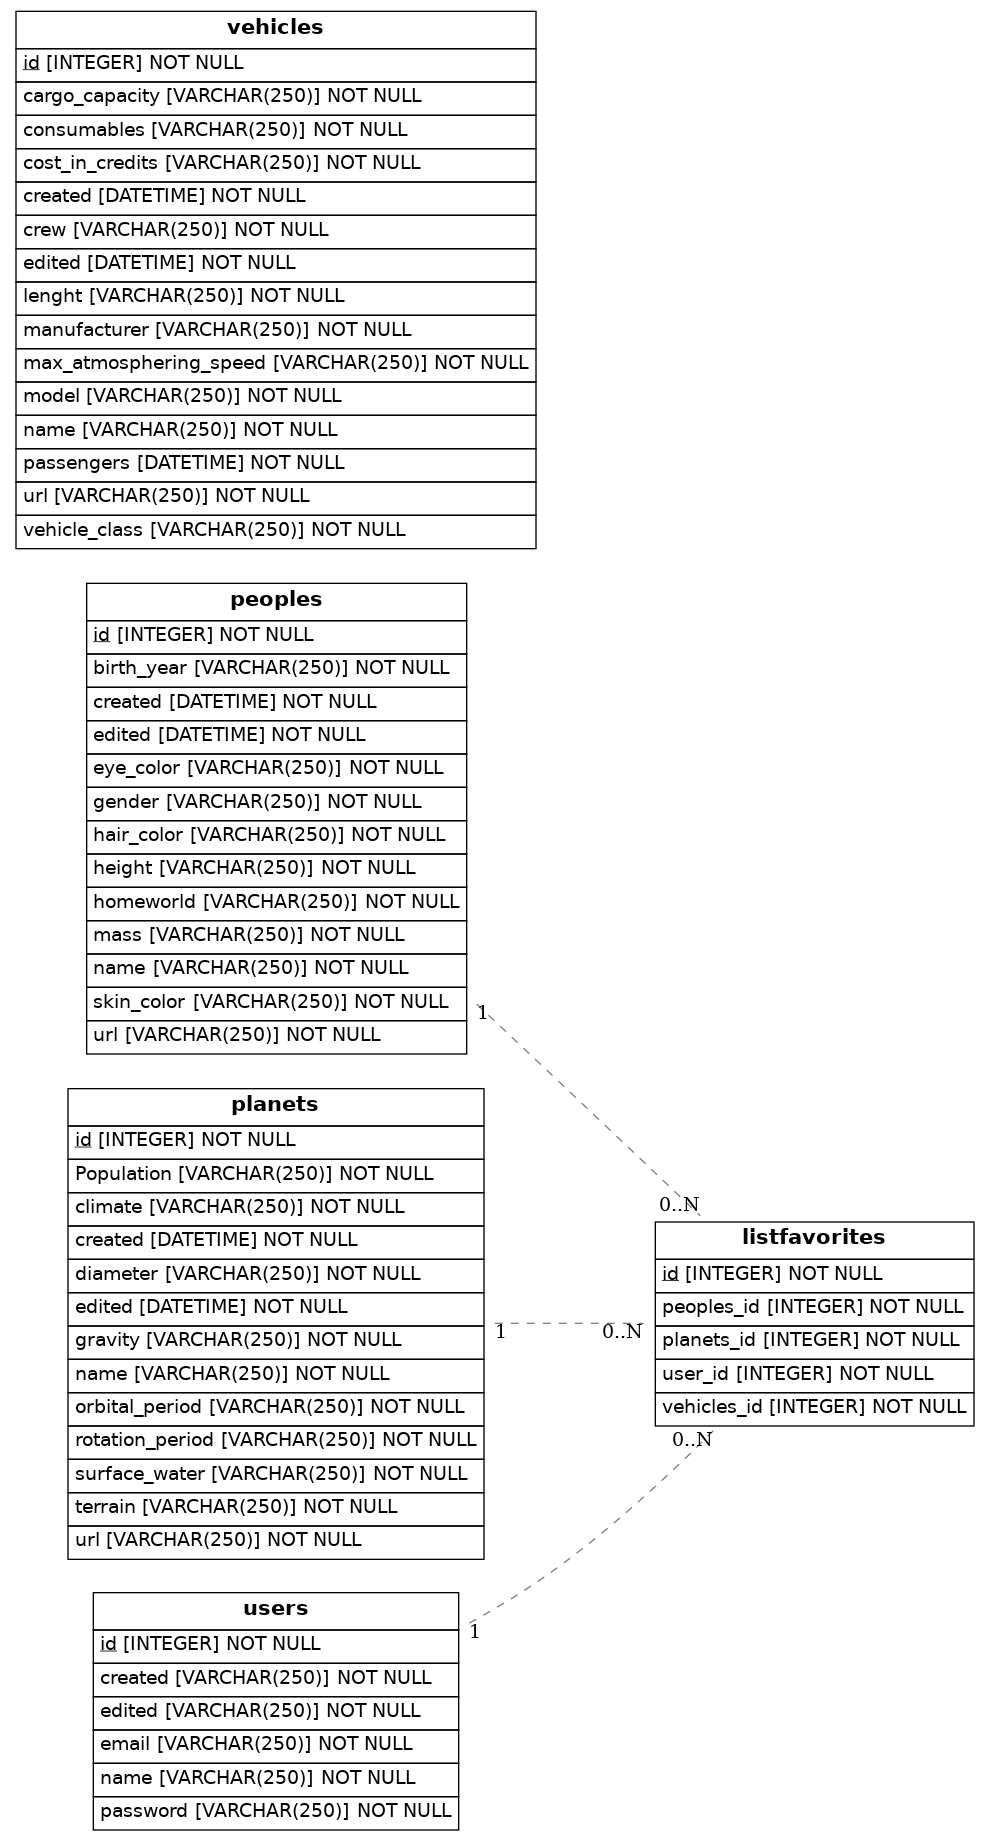
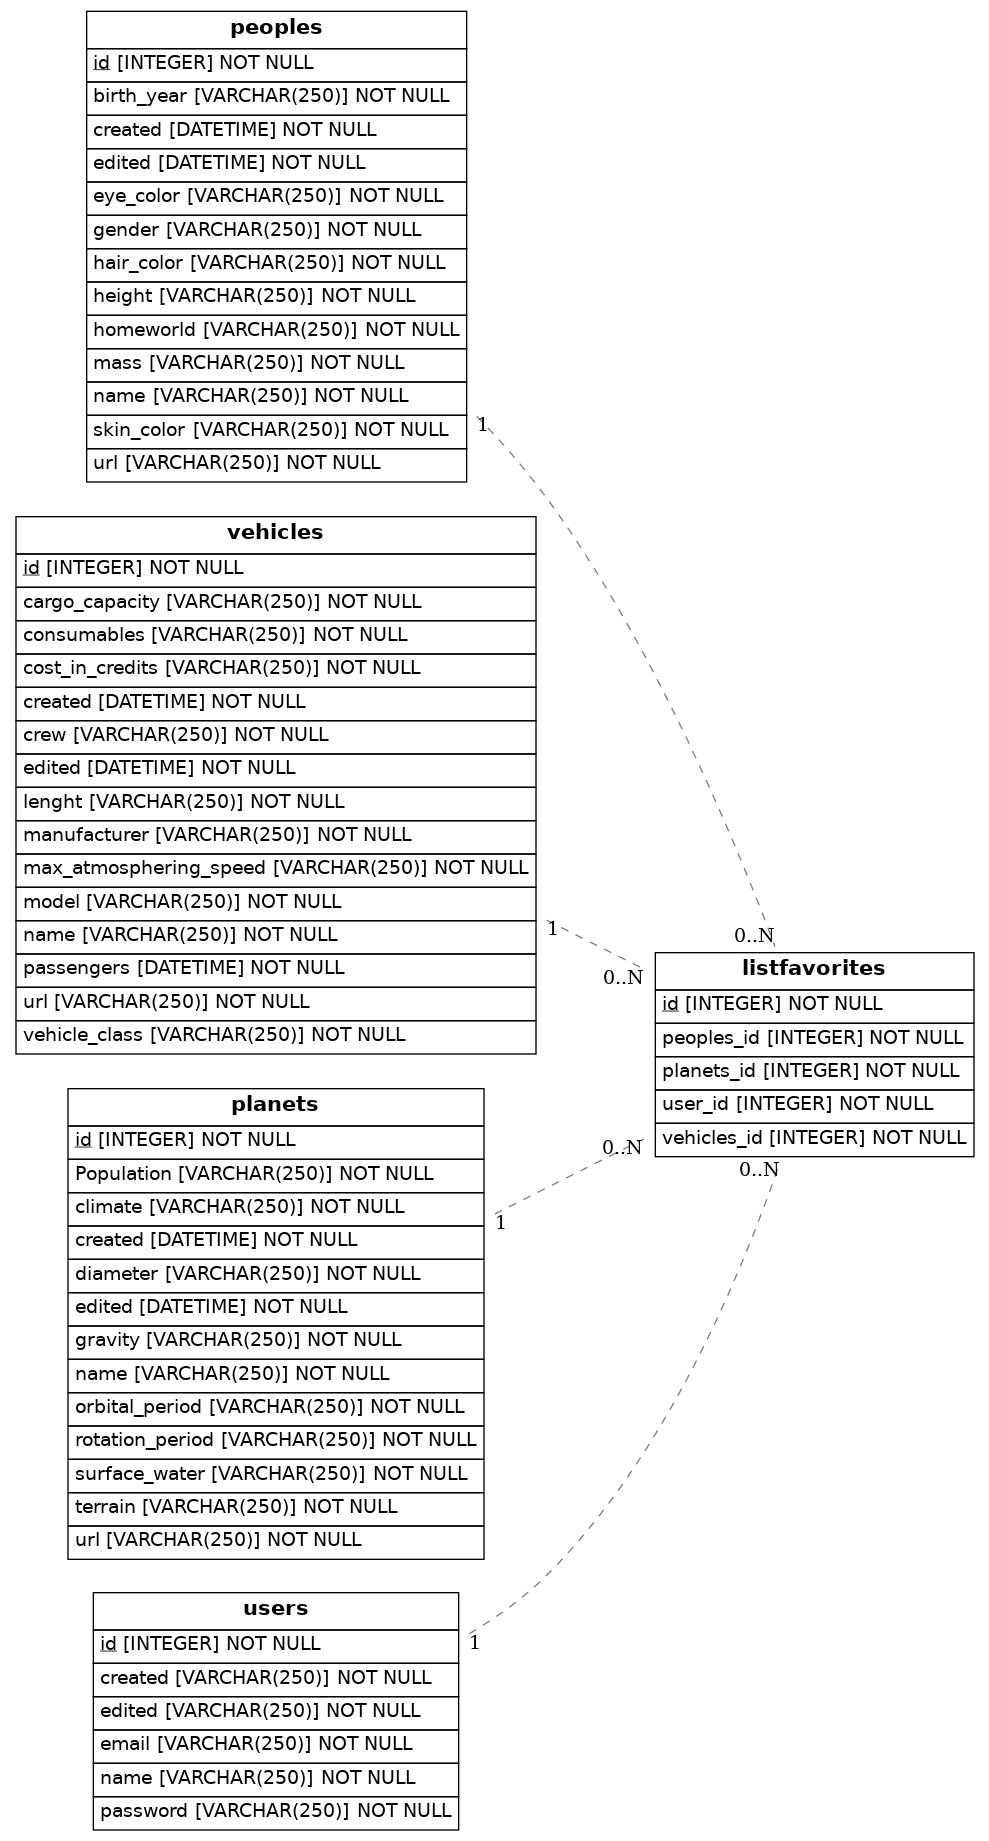
relaccion vehicles terminada

diff --git a/src/models.py b/src/models.py
@@ -86,7 +86,7 @@ class ListFavorites(Base):
     id = Column(Integer, primary_key=True)
     user_id=Column(Integer, ForeignKey("users.id"), nullable=False)
     peoples_id=Column(Integer, ForeignKey("peoples.id"), nullable=False)
-    vehicles_id=Column(Integer, ForeignKey("vechicles.id"), nullable=False)
+    vehicles_id=Column(Integer, ForeignKey("vehicles.id"), nullable=False)
     planets_id=Column(Integer, ForeignKey("planets.id"), nullable=False)
 
 
